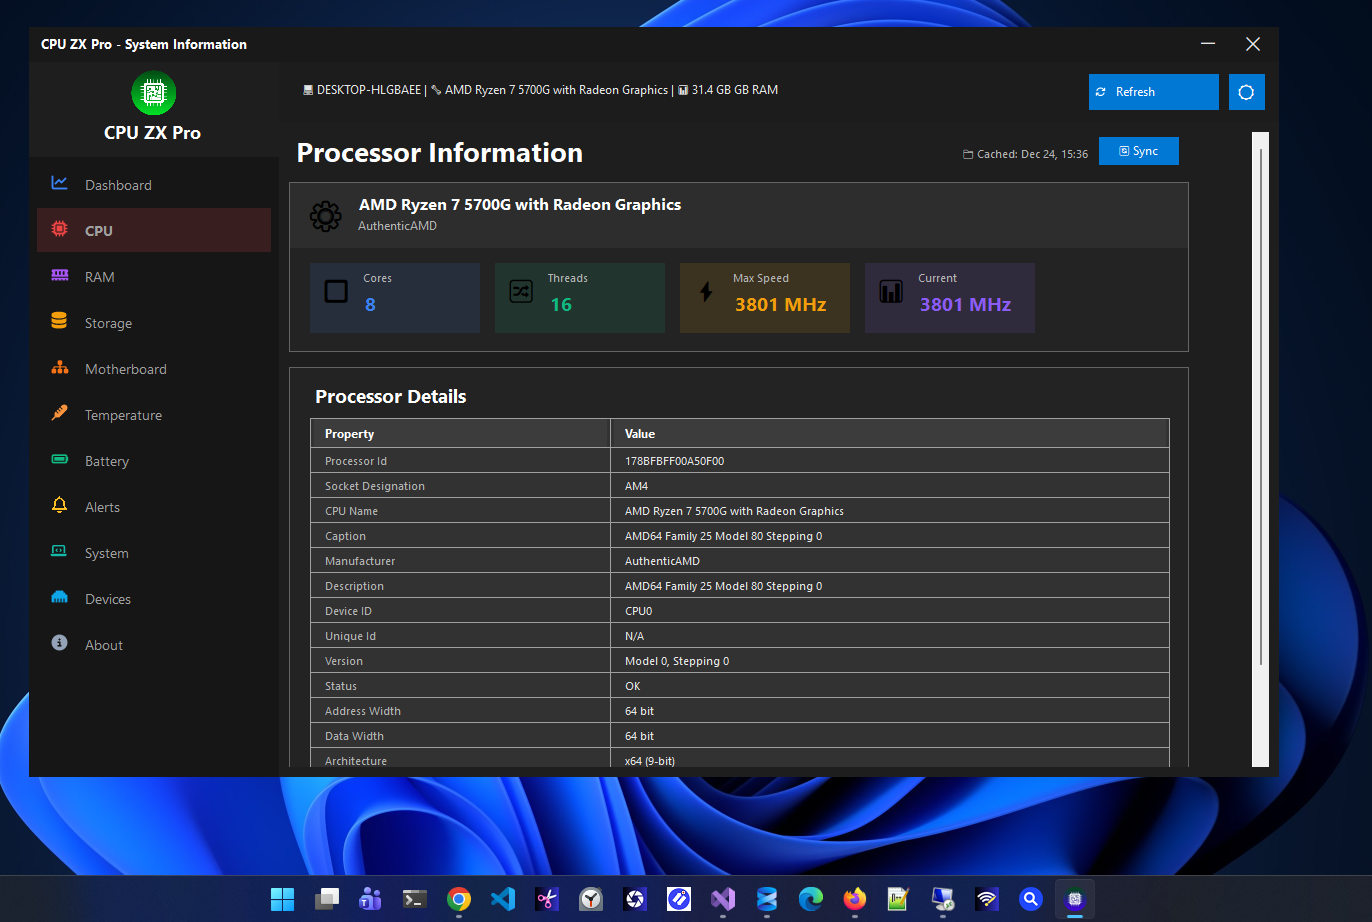
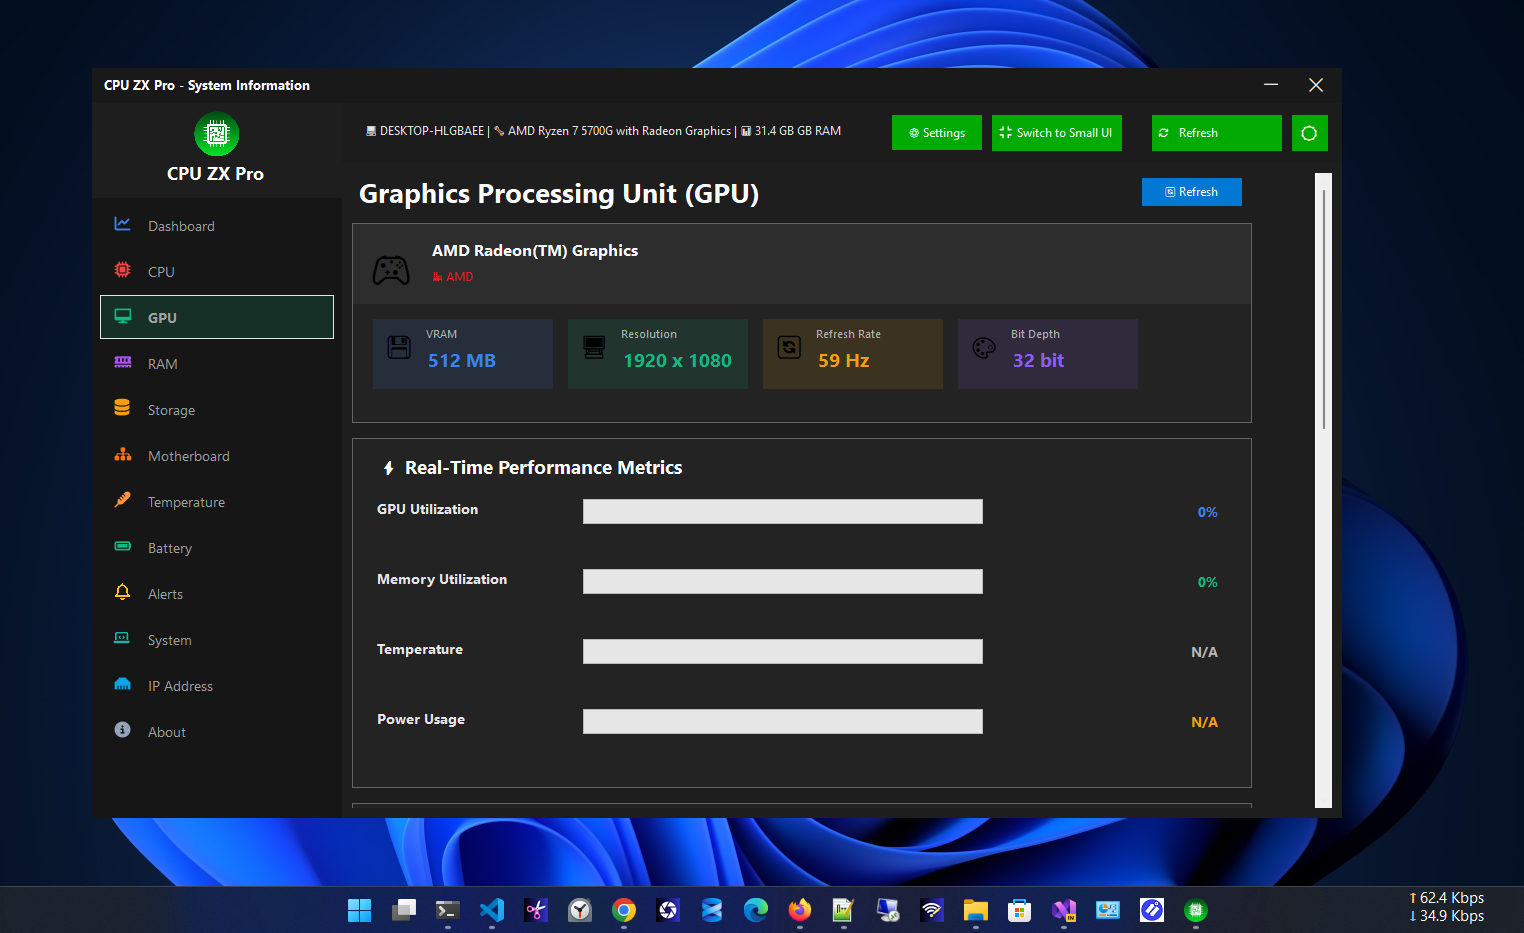
+ fix image order

diff --git a/README.md b/README.md
@@ -226,7 +226,7 @@ Complete Windows system information
 
 ---
 
-## Temperature Monitoring
+## Motherboard Information
 
 <p align="center">
 <img src="images/6.png" width="900">
@@ -234,10 +234,18 @@ Complete Windows system information
 
 ---
 
+## Temperature Monitoring
+
+<p align="center">
+<img src="images/7.1.png" width="900">
+</p>
+
+---
+
 ## Battery Information
 
 <p align="center">
-<img src="images/7.png" width="900">
+<img src="images/7.2.png" width="900">
 </p>
 
 ---
@@ -250,7 +258,7 @@ Complete Windows system information
 
 ---
 
-## IP Address
+## About
 
 <p align="center">
 <img src="images/9.png" width="900">
